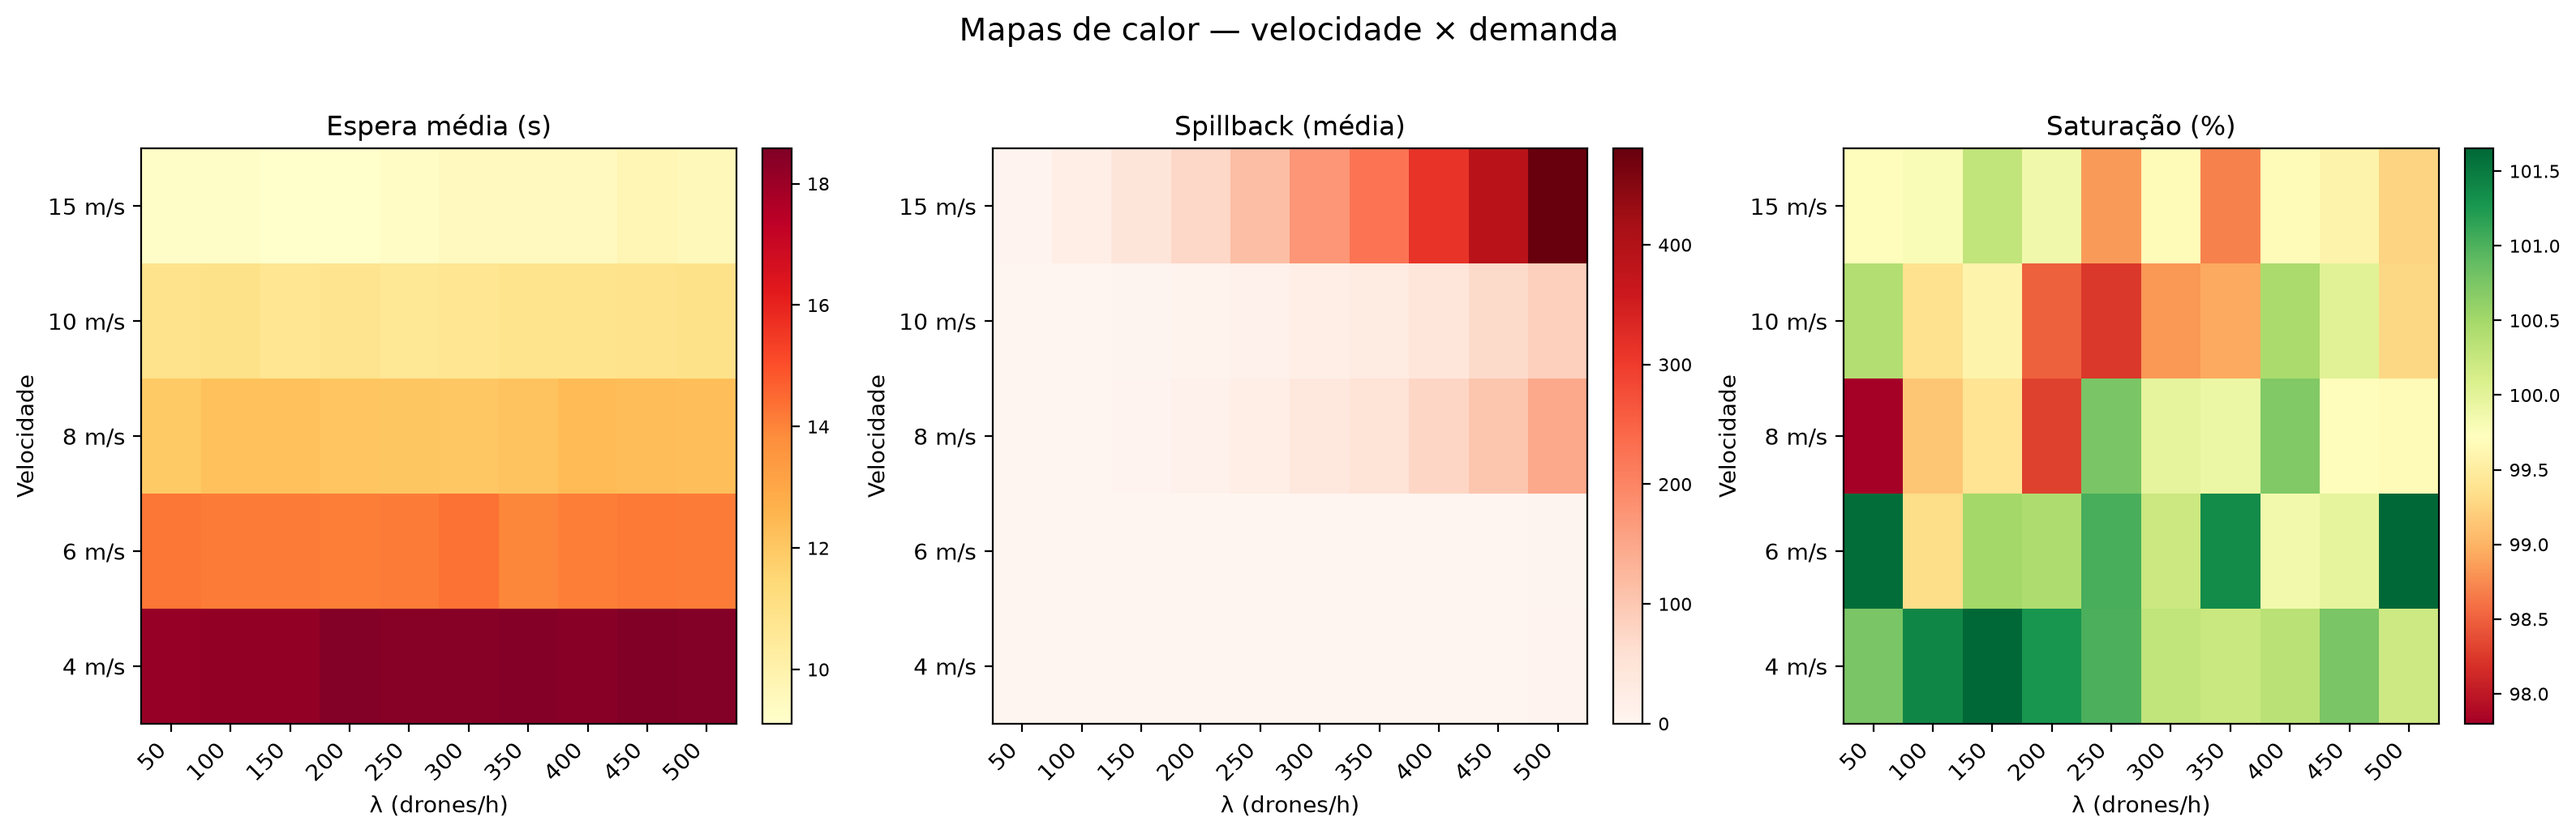
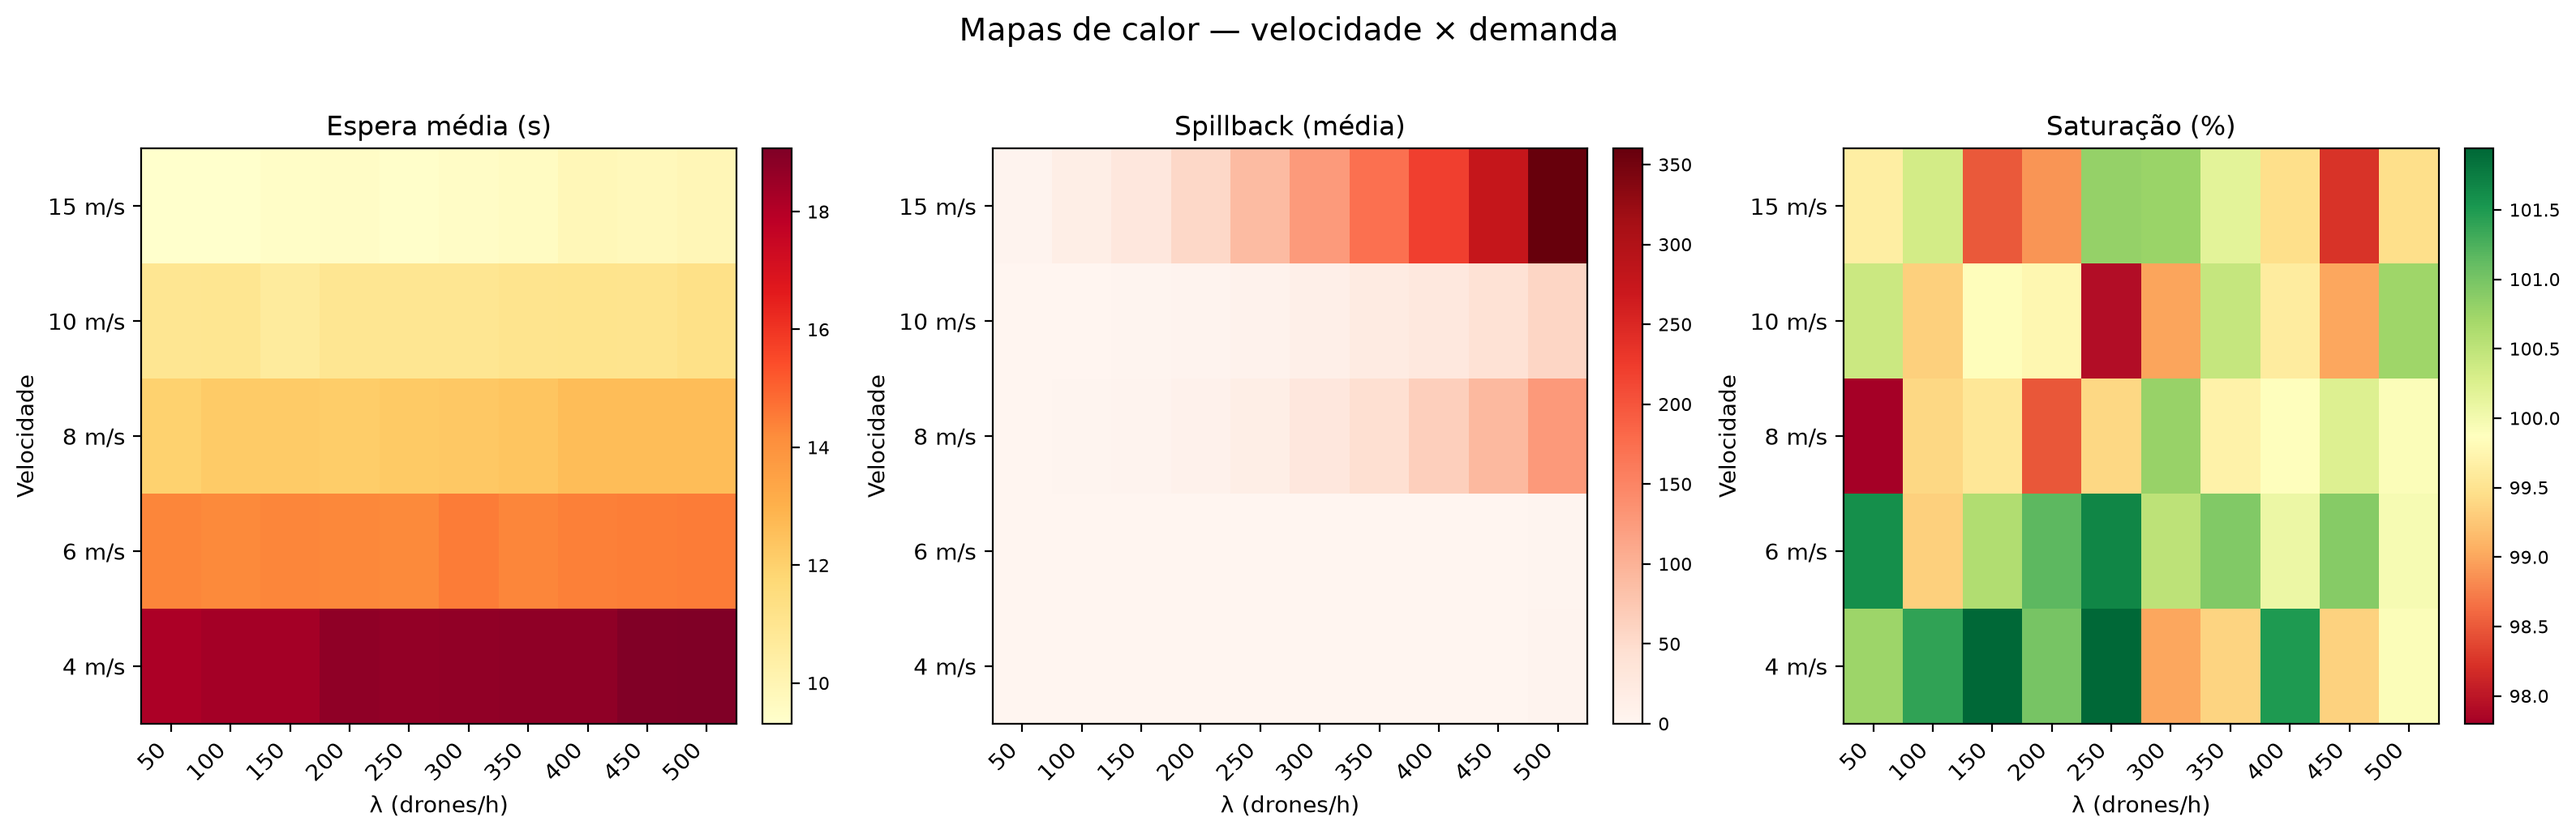
Update results.csv with new simulation metrics, modify model imports in __init__.py, and enhance Via class in models.py for improved drone behavior. Update simulation logic in __init__.py to reflect changes in merging and waiting strategies.

diff --git a/tesourinha/simulation/__init__.py b/tesourinha/simulation/__init__.py
@@ -1,7 +1,18 @@
 import random
 import simpy
 from ..constants import TESOURINHA_CONFIG as C, FLIGHT_PLAN_CONFIG, SOURCE_CONFIG
-from ..models import Via, UAV_INTENTS
+from ..models import Via, UAV_INTENTS, h_cruise, h_merge
+
+
+# Mapa intent → (exit_x, função de headway)
+# exit_x é onde o drone VAI SAIR da via — necessário para o pré-registro
+# correto dos timestamps downstream no Via.merge()
+_INTENT_PARAMS = {
+    UAV_INTENTS.CRUISE:     (C["FINISH"],      h_cruise),
+    UAV_INTENTS.DESCEND:    (C["DESCEND"],     h_merge),
+    UAV_INTENTS.SWITCH:     (C["SWITCH_OUT"],  h_merge),
+    UAV_INTENTS.RETURN_OUT: (C["RETURN_OUT"],  h_merge),
+}
 
 
 class Stats:
@@ -11,8 +22,8 @@ class Stats:
         self.total_wait:       float = 0.0
 
     def record(self, wait: float):
-        self.completed    += 1
-        self.total_wait   += wait
+        self.completed  += 1
+        self.total_wait += wait
 
     @property
     def avg_wait(self) -> float:
@@ -23,11 +34,12 @@ class Tesourinha:
     """
     Simulação completa de uma Air Tesourinha.
 
-    env    = simpy.Environment()
-    t      = Tesourinha(env, speed=10.0, lam=200, seed=42)
-    t.run(14400)
-    env.run(until=14400)
-    print(t.stats.completed, t.stats.spillback_events)
+    Uso:
+        env = simpy.Environment()
+        t   = Tesourinha(env, speed=10.0, lam=200, seed=42)
+        t.run(14400)
+        env.run(until=14400)
+        print(t.stats.completed, t.stats.spillback_events)
     """
 
     def __init__(self, env: simpy.Environment, speed: float, lam: float, seed: int = 0):
@@ -45,6 +57,8 @@ class Tesourinha:
         self.bfr_return_out = simpy.Resource(env, capacity=C["BFR_RETURN_OUT"])
         self.bfr_takeoff    = simpy.Resource(env, capacity=C["BFR_TAKEOFF"])
 
+    # ── Interface pública ─────────────────────────────────────────────────────
+
     def run(self, duration: float):
         lam_A  = self.lam * SOURCE_CONFIG["HIGHWAY_A"] / 3600
         lam_B  = self.lam * SOURCE_CONFIG["HIGHWAY_B"] / 3600
@@ -56,7 +70,7 @@ class Tesourinha:
         self.env.process(self._arrivals(lam_bi, duration, self._spawn_buffer_in))
         self.env.process(self._arrivals(lam_vs, duration, self._spawn_vertistop))
 
-    # ── Geradores de chegada ──────────────────────────────────────────────────
+    # ── Geradores de chegada (Poisson) ────────────────────────────────────────
 
     def _arrivals(self, lam: float, duration: float, spawn):
         while True:
@@ -66,38 +80,50 @@ class Tesourinha:
             spawn()
 
     def _spawn_highway(self, via: Via):
-        self.env.process(self._drone(via, "INPOINT", C["INPOINT"], self._sample_intent()))
+        self.env.process(
+            self._drone(via, "INPOINT", C["INPOINT"], self._sample_intent())
+        )
 
     def _spawn_buffer_in(self):
-        self.env.process(self._drone(self.via_B, "RETURN_IN", C["RETURN_IN"], UAV_INTENTS.CRUISE))
+        # Tráfego oposto: entra sempre como CRUISE pois já passou pela
+        # tesourinha anterior e só precisa atravessar esta
+        self.env.process(
+            self._drone(self.via_B, "RETURN_IN", C["RETURN_IN"], UAV_INTENTS.CRUISE)
+        )
 
     def _spawn_vertistop(self):
         self.env.process(self._takeoff())
 
-    # ── Processos de drone ────────────────────────────────────────────────────
+    # ── Processo principal do drone ───────────────────────────────────────────
 
     def _drone(self, via: Via, entry: str, entry_x: float, intent: UAV_INTENTS):
         """
-        Ciclo completo de um drone na via.
+        Ciclo de vida completo de um drone na via.
 
-        Regra crítica em cada diverge:
-            O drone pede o buffer ANTES de liberar o slot da via.
-            Se o buffer estiver cheio, o drone SEGURA o slot — spillback real.
-            Só libera o slot quando conseguir entrar no buffer.
+        Ordem crítica em cada ponto de diverge:
+            1. drone chega ao waypoint (timeout de viagem)
+            2. pede o buffer ANTES de liberar o slot da via
+            3. se buffer cheio → drone SEGURA o slot → spillback real
+            4. só libera o slot quando entrar no buffer
         """
-        t_born = self.env.now
+        t_born          = self.env.now
+        exit_x, h_fn    = _INTENT_PARAMS[intent]
+        h_min           = h_fn(via.speed)
 
-        # 1. Espera gap no nó de entrada (fila FIFO via MergeNode)
-        yield from via.nodes[entry].request()
+        # ── 1. Espera gap correto considerando TODOS os drones da via ──
+        # Via.merge() usa _last_at: timestamps projetados de todos os
+        # drones que entraram em qualquer entry point a upstream
+        yield from via.merge(entry, h_min, exit_x)
 
-        # 2. Ocupa slot físico na via
+        # ── 2. Ocupa slot físico na via ──
         via_req = via.slots.request()
         t_slot  = self.env.now
         yield via_req
         if self.env.now > t_slot + 0.001:
             self.stats.spillback_events += 1
 
-        # 3. Executa plano de voo
+        # ── 3. Executa plano de voo ──
+
         if intent == UAV_INTENTS.CRUISE:
             yield self.env.timeout(via.travel_time(entry_x, C["FINISH"]))
             via.slots.release(via_req)
@@ -107,10 +133,10 @@ class Tesourinha:
             yield self.env.timeout(via.travel_time(entry_x, C["DESCEND"]))
             bfr = self.bfr_descend.request()
             t   = self.env.now
-            yield bfr                              # bloqueia se buffer cheio
+            yield bfr                        # bloqueia se buffer cheio
             if self.env.now > t + 0.001:
                 self.stats.spillback_events += 1
-            via.slots.release(via_req)             # só agora sai da via
+            via.slots.release(via_req)       # só sai da via após garantir vaga
             yield self.env.timeout(self._rng.uniform(30, 60))
             self.bfr_descend.release(bfr)
             self.stats.record(self.env.now - t_born)
@@ -123,14 +149,19 @@ class Tesourinha:
             if self.env.now > t + 0.001:
                 self.stats.spillback_events += 1
             via.slots.release(via_req)
-            target = self.via_B if via.name == "A" else self.via_A
-            yield from target.nodes["SWITCH_IN"].request()
+
+            # Merge na via oposta a partir do SWITCH_IN
+            target  = self.via_B if via.name == "A" else self.via_A
+            h_tgt   = h_merge(target.speed)
+            yield from target.merge("SWITCH_IN", h_tgt, C["FINISH"])
+
             tgt_req = target.slots.request()
             t2      = self.env.now
             yield tgt_req
             if self.env.now > t2 + 0.001:
                 self.stats.spillback_events += 1
-            self.bfr_switch.release(bfr)
+
+            self.bfr_switch.release(bfr)     # sai do buffer ao entrar na nova via
             yield self.env.timeout(target.travel_time(C["SWITCH_IN"], C["FINISH"]))
             target.slots.release(tgt_req)
             self.stats.record(self.env.now - t_born)
@@ -147,13 +178,23 @@ class Tesourinha:
             self.bfr_return_out.release(bfr)
             self.stats.record(self.env.now - t_born)
 
+    # ── Decolagem do Vertistop ────────────────────────────────────────────────
+
     def _takeoff(self):
+        """
+        Drone aguarda vaga no buffer de decolagem, transita pelo elevador
+        (33s de subida vertical) e entra na via no ASCEND como CRUISE.
+        """
         bfr = self.bfr_takeoff.request()
         yield bfr
         yield self.env.timeout(C["VERTICAL_TIME"])
         self.bfr_takeoff.release(bfr)
         target = self._rng.choice([self.via_A, self.via_B])
-        self.env.process(self._drone(target, "ASCEND", C["ASCEND"], UAV_INTENTS.CRUISE))
+        self.env.process(
+            self._drone(target, "ASCEND", C["ASCEND"], UAV_INTENTS.CRUISE)
+        )
+
+    # ── Helper ────────────────────────────────────────────────────────────────
 
     def _sample_intent(self) -> UAV_INTENTS:
         r, cum = self._rng.random(), 0.0

diff --git a/tesourinha/models.py b/tesourinha/models.py
@@ -4,30 +4,19 @@ from enum import IntEnum
 from .constants import TESOURINHA_CONFIG, UAV_CONFIG
 
 
-# ─── Física ───────────────────────────────────────────────────────────────────
-
 def geofence(v: float) -> float:
-    """G(v) = v²/2a + v·tr + L — tamanho da bolha de segurança em metros."""
     a, tr, L = UAV_CONFIG["DECEL"], UAV_CONFIG["V2V_LATENCY"], UAV_CONFIG["LENGTH"]
     return (v**2) / (2*a) + v*tr + L
 
 def h_cruise(v: float) -> float:
-    """Headway mínimo para entrada em fluxo contínuo (s)."""
     return geofence(v) / v
 
 def h_merge(v: float) -> float:
-    """Gap mínimo para merge seguro desde parada (s)."""
     return (geofence(v) + (v**2) / (2*UAV_CONFIG["DECEL"])) / v
 
 def via_slots(v: float) -> int:
-    """
-    Máximo de drones simultâneos na via.
-    Velocidade MENOR → geofence MENOR → MAIS slots.
-    """
     return max(1, math.floor(TESOURINHA_CONFIG["LENGTH"] / geofence(v)))
 
-
-# ─── Enums ────────────────────────────────────────────────────────────────────
 
 class UAV_STATUS(IntEnum):
     WAITING   = 0
@@ -44,72 +33,47 @@ class UAV_INTENTS(IntEnum):
     TAKEOFF    = 5
 
 
-# ─── MergeNode ────────────────────────────────────────────────────────────────
-
-class MergeNode:
-    """
-    Enforça separação temporal em um ponto de entrada da via.
-
-    A versão com while/loop é O(n²) quando muitos drones esperam juntos:
-    todos acordam no mesmo instante e precisam re-verificar em cadeia.
-
-    Esta versão usa Resource(capacity=1) como fila FIFO: cada drone
-    espera sua vez, calcula o wait EXATAMENTE UMA VEZ e passa. O(1).
-    """
-
-    def __init__(self, env: simpy.Environment, h_min: float, name: str = ""):
-        self.env   = env
-        self.h_min = h_min
-        self.name  = name
-        self._lock = simpy.Resource(env, capacity=1)
-        self._last: float = -9999.0
-        self.total_wait: float = 0.0
-        self.count:      int   = 0
-
-    def request(self):
-        """
-        yield from node.request()
-
-        Entra na fila, espera sua vez, calcula o gap uma vez, passa.
-        """
-        t0 = self.env.now
-        with self._lock.request() as lock_req:
-            yield lock_req
-            wait = max(0.0, self._last + self.h_min - self.env.now)
-            if wait > 0:
-                yield self.env.timeout(wait)
-            self._last         = self.env.now
-            self.total_wait   += self.env.now - t0
-            self.count        += 1
-
-    @property
-    def avg_wait(self) -> float:
-        return self.total_wait / max(1, self.count)
-
-
-# ─── Via ──────────────────────────────────────────────────────────────────────
-
 class Via:
-    """
-    Lane aérea de 60m. Capacidade = floor(60 / G(v)).
-
-    Um drone ocupa 1 slot da entrada até o diverge ou Finish.
-    Se todos os slots estiverem ocupados, o próximo drone bloqueia
-    (segurando o slot da via anterior) — esse é o spillback.
-    """
+    ENTRY_WP = {
+        "INPOINT":   0.0,
+        "RETURN_IN": 6.0,
+        "SWITCH_IN": 40.0,
+        "ASCEND":    48.0,
+    }
 
     def __init__(self, env: simpy.Environment, name: str, speed: float):
-        self.env   = env
-        self.name  = name
-        self.speed = speed
+        self.env     = env
+        self.name    = name
+        self.speed   = speed
         self.slots   = simpy.Resource(env, capacity=via_slots(speed))
         self.n_slots = via_slots(speed)
-        self.nodes = {
-            "INPOINT":   MergeNode(env, h_cruise(speed), f"{name}_INPOINT"),
-            "RETURN_IN": MergeNode(env, h_merge(speed),  f"{name}_RETURN_IN"),
-            "SWITCH_IN": MergeNode(env, h_merge(speed),  f"{name}_SWITCH_IN"),
-            "ASCEND":    MergeNode(env, h_merge(speed),  f"{name}_ASCEND"),
-        }
+        self._last_at = {ep: -9999.0 for ep in self.ENTRY_WP}
+        self._locks   = {ep: simpy.Resource(env, capacity=1) for ep in self.ENTRY_WP}
+        self._wait_total = {ep: 0.0 for ep in self.ENTRY_WP}
+        self._wait_count = {ep: 0   for ep in self.ENTRY_WP}
+
+    def merge(self, entry_point: str, h_min: float, exit_x: float):
+        entry_x = self.ENTRY_WP[entry_point]
+        t0 = self.env.now
+
+        with self._locks[entry_point].request() as lock:
+            yield lock
+            wait = max(0.0, self._last_at[entry_point] + h_min - self.env.now)
+            if wait > 0:
+                yield self.env.timeout(wait)
+
+            t_now = self.env.now
+            for ep_name, ep_x in self.ENTRY_WP.items():
+                if entry_x <= ep_x <= exit_x:
+                    t_pass = t_now + (ep_x - entry_x) / self.speed
+                    if t_pass > self._last_at[ep_name]:
+                        self._last_at[ep_name] = t_pass
+
+            self._wait_total[entry_point] += self.env.now - t0
+            self._wait_count[entry_point] += 1
 
     def travel_time(self, x_from: float, x_to: float) -> float:
         return abs(x_to - x_from) / self.speed
+
+    def avg_merge_wait(self, entry_point: str) -> float:
+        return self._wait_total[entry_point] / max(1, self._wait_count[entry_point])

diff --git a/tesourinha/__init__.py b/tesourinha/__init__.py
@@ -1,12 +1,12 @@
 from .constants import TESOURINHA_CONFIG, UAV_CONFIG, SIM_CONFIG
-from .models import geofence, h_cruise, h_merge, via_slots, MergeNode, Via, UAV_INTENTS, UAV_STATUS
+from .models import geofence, h_cruise, h_merge, via_slots, Via, UAV_INTENTS, UAV_STATUS
 from .simulation import Tesourinha
 from .statistics import ScenarioResult, run_scenario, grid_search
 
 __all__ = [
     "TESOURINHA_CONFIG", "UAV_CONFIG", "SIM_CONFIG",
     "geofence", "h_cruise", "h_merge", "via_slots",
-    "MergeNode", "Via", "UAV_INTENTS", "UAV_STATUS",
+    "Via", "UAV_INTENTS", "UAV_STATUS",
     "Tesourinha",
     "ScenarioResult", "run_scenario", "grid_search",
 ]
